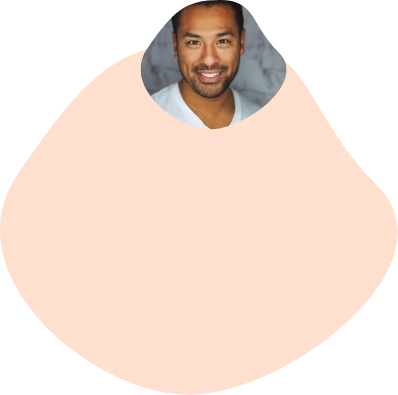
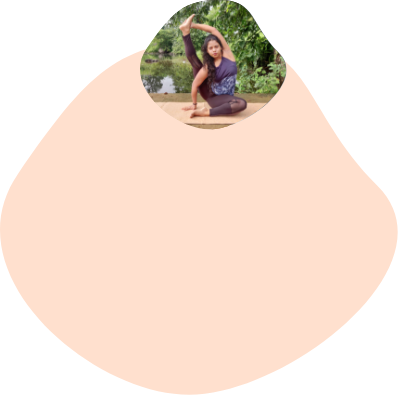
influencer page image added and adjusted code

Changed region(s): [[0.3317, 0.0, 0.7236, 0.3342]]

diff --git a/layouts/partials/wjy_influncers.html b/layouts/partials/wjy_influncers.html
@@ -11,12 +11,12 @@
 
             <div class="row grid4 mb-4">
                 <div class="col-md-6 mb-4 mb-md-0">
-                    <img src='{{"/images/no1.png" | absURL}}' alt="">
+                    <img src='{{"/images/lamp.png" | absURL}}' alt="">
                     <h4>Get paid within 24 hours*</h3>
                         <p>Once the brands give their approval for the post, you will post your creative content. Once it is submitted, your money gets deposited to their Famstar wallet within 24-hours. </p>
                 </div>
                 <div class="col-md-6">
-                    <img src='{{"/images/no2.png" | absURL}}' alt="">
+                    <img src='{{"/images/Page-1.png" | absURL}}' alt="">
                     <h4>Transparent bidding</h3>
                         <p>Explore the campaigns posted by the brands. Everyone on Famstar app has the opportunity to bid on a campaign. For us, you all are our FAM. </p>
                 </div>
@@ -24,12 +24,12 @@
 
             <div class="row grid4 mb-4">
                 <div class="col-md-6 mb-4 mb-md-0">
-                    <img src='{{"/images/no3.png" | absURL}}'  alt="">
+                    <img src='{{"/images/united.png" | absURL}}'  alt="">
                     <h4>Pitch with your creative content</h3>
                         <p>Brands are always on the lookout for people who can understand their POV. When you submit with your creative, brands see the connection and approve your style, it is awesome to collaborate with them.</p>
                 </div>
                 <div class="col-md-6">
-                    <img src='{{"/images/no4.png" | absURL}}'  alt="">
+                    <img src='{{"/images/surface1.png" | absURL}}'  alt="">
                     <h4>Copyright content</h3>
                         <p>Don't sell your content for free. Until a brand approves and buys your content piece, we safeguard your posts. Your content is copyright protected with us.</p>
                 </div>

diff --git a/layouts/partials/campaings.html b/layouts/partials/campaings.html
@@ -13,17 +13,17 @@
 
                 <div class="col-md-7 topblockdesc mt-4">
                     <div class="w-100">
-                        <img src='{{"/images/no1.png" | absURL}}'  class="my-2" alt="">
+                        <img src='{{"/images/add-friend.png" | absURL}}'  class="my-2" alt="">
                         <h4>Choose and Apply</h3>
                             <p>Use your power to affect the buying decisions of others. Choose the campaign which is more suitable to your position and relationship with your audience. The distinct ways to influence allows you to vary your style. Submit your bids accordingly.</p>
                     </div>
                     <div class="w-100">
-                        <img src='{{"/images/no2.png" | absURL}}' class="my-2" alt="">
+                        <img src='{{"/images/details.png" | absURL}}' class="my-2" alt="">
                         <h4>Read Briefs and Create</h3>
                             <p>Read the briefs; go through the boards and references to understand what brands want and the dos and don’ts. Match your style with their needs. Complete the tasks and submit your creative content for endorsements.</p>
                     </div>
                     <div class="w-100">
-                        <img src='{{"/images/no3.png" | absURL}}' class="my-2" alt="">
+                        <img src='{{"/images/internet-explorer.png" | absURL}}' class="my-2" alt="">
                         <h4>Get Paid and Enjoy</h3>
                             <p>Roll in extra side cash by sharing exclusive experiences. Automatic reports are shared with the brands at the agreed schedule. Make sure to submit on time to take the maximum benefit and don’t forget to check your wallet for instant payments..</p>
                     </div>

diff --git a/static/css/style.css b/static/css/style.css
@@ -92,6 +92,8 @@ h5{
 /**************** Banner Section ****************/
 .mainbanner{background:url(../images/hero-banner.png) no-repeat right top; background-size:contain;}
 .influencebanner{background:url(../images/hero-banner1.png) no-repeat right top; background-size:contain;}
+.influencebannerbg{background:url(../images/hero-banner2.png) no-repeat right top; background-size:contain;}
+
 #hero{height:100%; height:auto; padding:0px 0px 55px 15px; width:100%; float:left;}
 #hero h4{color:#2C2B30; margin-top:10px; text-transform:uppercase; font-size:34px; font-weight: 600; line-height: 46px; }
 #hero h3{color:#130f2d; font-size: 24px;}

diff --git a/layouts/partials/hero.html b/layouts/partials/hero.html
@@ -71,7 +71,7 @@
 
 	
     <!-- Hero Section -->
-    <div id="hero" class="influencebanner">
+    <div id="hero" class="influencebanner influencebannerbg">
         <div class="container-fluid">
             <div class="row align-items-center">
                 <div class="col-lg-6">

diff --git a/static/css/custommedia.css b/static/css/custommedia.css
@@ -107,6 +107,7 @@
     .footer h2{padding: 0;}
     #clientscroll h2{font-size: 22px !important; font-weight: 600 !important;}
     .image-p{font-size: 14px !important; line-height: 18px !important;}
+    .dbba{padding-bottom: 150px;}
 }
 
 
